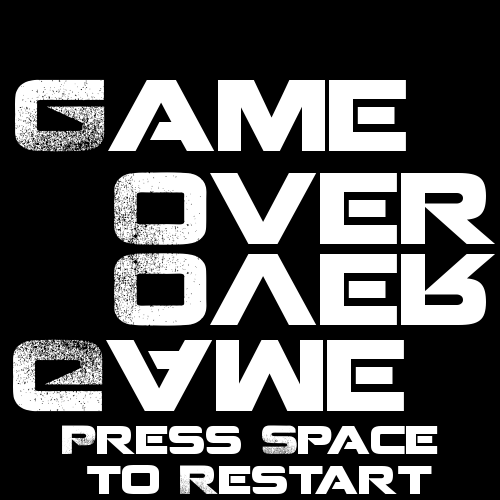
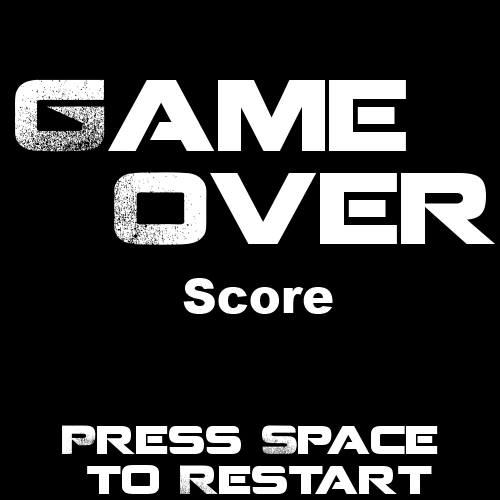
ITS DONEgit add *git add *

Changed region(s): [[0.0, 0.48, 0.99, 0.84]]

diff --git a/main.js b/main.js
@@ -48,36 +48,70 @@ window.onload = function() {
       scoreLabel.addEventListener('enterframe', function() {
          this.text = "Score: " + game.score;
       });
+      endLabel = new Label();
+      endLabel.addEventListener('enterframe',function(){
+         this.text = "" + game.score;
+         
+         endLabel.x = 228;
+         endLabel.y = 336;
+         endLabel.color = 'white';
+         endLabel.xScale = 3;
+         endLabel.yScale = 3;
+         //endLabel.scale(3*Math.sin(game.exitScene.age)+6,3*Math.cos(game.exitScene.age)+6);
+         //endLabel.rotation = 30*Math.sin(game.exitScene.age/3);
+         
+      });
+      game.exitScene.addChild(endLabel);
+
       scoreLabel.x = 10;
       scoreLabel.y = 10;
 
       game.rootScene.addChild(player);
       game.rootScene.addChild(scoreLabel);
+      
       game.exitScene.addEventListener('enterframe',function(e){
       if(game.currentScene === game.exitScene && game.input.space)
          {
-            /*
+            game.gameStateUp=true; 
             console.log("Switching scene!");
-            camera = new Camera();
             player = new Player();
+            camera = new Camera();
+            
            // player.globalY = gameHeight/2;
             game.gameOver = false;
             game.score = 0;
             game.rootScene.addChild(player);
             game.flipTimer = 0;
             camera.globalY = 0;
-            game.gameStateUp=true;
+           
             //game.rootScene.addChild(new )
             delayToEnd=120;
+            game.bgm = game.assets['CutRunUpLoop.ogg'];
+            bg.frame = 0;
+            upBlockHeight = 400;
+            downblockheight = 500;
+            while(platforms.length > 0)
+            {
+               game.rootScene.removeChild(platforms.pop());
+            }
+            while(platformRows.length > 0)
+            {
+               platformRows.pop().removeSelf(); 
+            }
+            game.rootScene.age=0;
+            scoreLabel.color = 'black';
+            game.rootScene.addChild(new Platform(0, gameHeight - 100, gameWidth));
+            console.log(game.rootScene.age);
             game.popScene(game.rootScene);
-            */
-            game.restart();
+            
+            
+            //game.start();
 
          }
       });
       game.rootScene.addEventListener('enterframe', function(e) {
       if(!game.gameOver){
-         
+            console.log(game.gameStateUp)
             camera.update();
             game.score += 6;
 
@@ -96,10 +130,7 @@ window.onload = function() {
                   // console.log(downBlockHeight);
                }
             }
-            if(game.input.switchPlats)
-            {
-               game.flipTimer = 9999;
-            }
+            
             game.flipTimer++;
             if (game.flipTimer > game.fps * 5) {
                game.bgm.pause();
@@ -167,14 +198,9 @@ window.onload = function() {
                   bg.frame = 0;
                else
                   bg.frame = 1;
-            };
 
-            if ((game.transition.currentTime >= game.transition.duration) ){
-               game.bgm.play();
-               console.log("AND SWITCH!");
-               player.stopChillin();
-               camera.stopChillin();
-            };
+            
+
             /*
             if (player.y + player.height < 0 && !game.gameStateUp ||
              player.y > gameHeight && game.gameStateUp) {
@@ -188,10 +214,19 @@ window.onload = function() {
             }
             */
          }
+         if ((game.transition.currentTime >= game.transition.duration) ){
+               game.bgm.play(); 
+               //console.log("AND SWITCH!");
+               player.stopChillin();
+               camera.stopChillin();
+            }
+         }
+            
          else
          {
             if(delayToEnd-- <=0)
             {
+               game.bgm = game.assets['CutRunUpLoop.ogg'];
                game.pushScene(game.exitScene);
             }
          }

diff --git a/platform.js b/platform.js
@@ -3,8 +3,8 @@ var minUpHeight = 100;
 var maxWidth = 100;
 var minWidth = 40;
 var downWidthMax = 300;
-var gapSpaceMax = 150;
-var gapSpaceMin = 100;
+var gapSpaceMax = 200;
+var gapSpaceMin = 150;
 var maxDownHeight = 160;
 var minDownHeight = 100;
 var frameWidth = 100;
